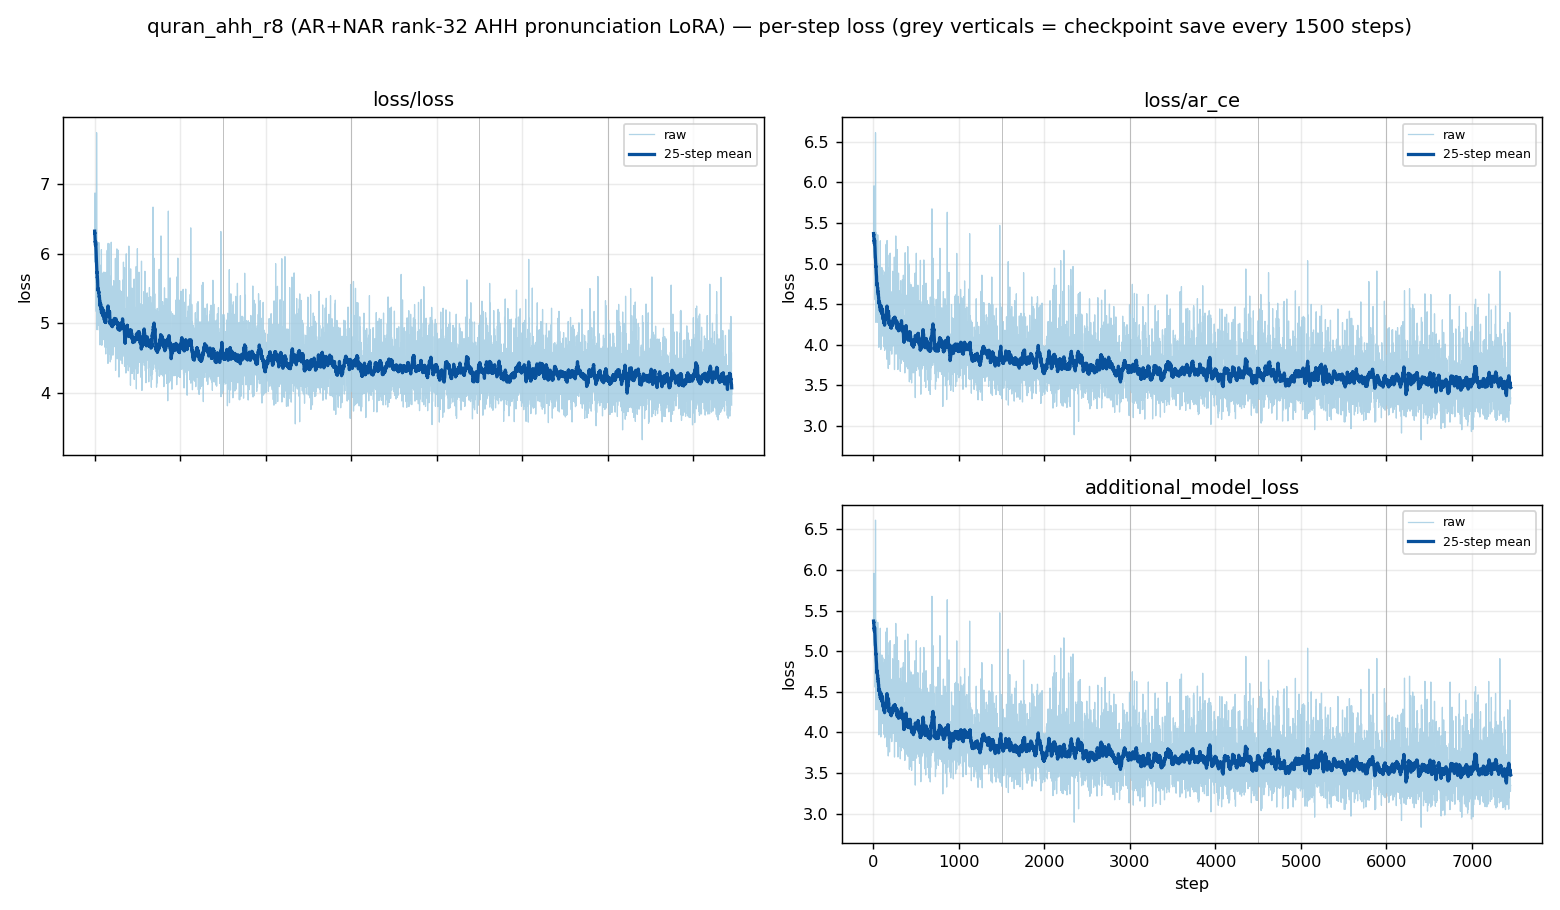
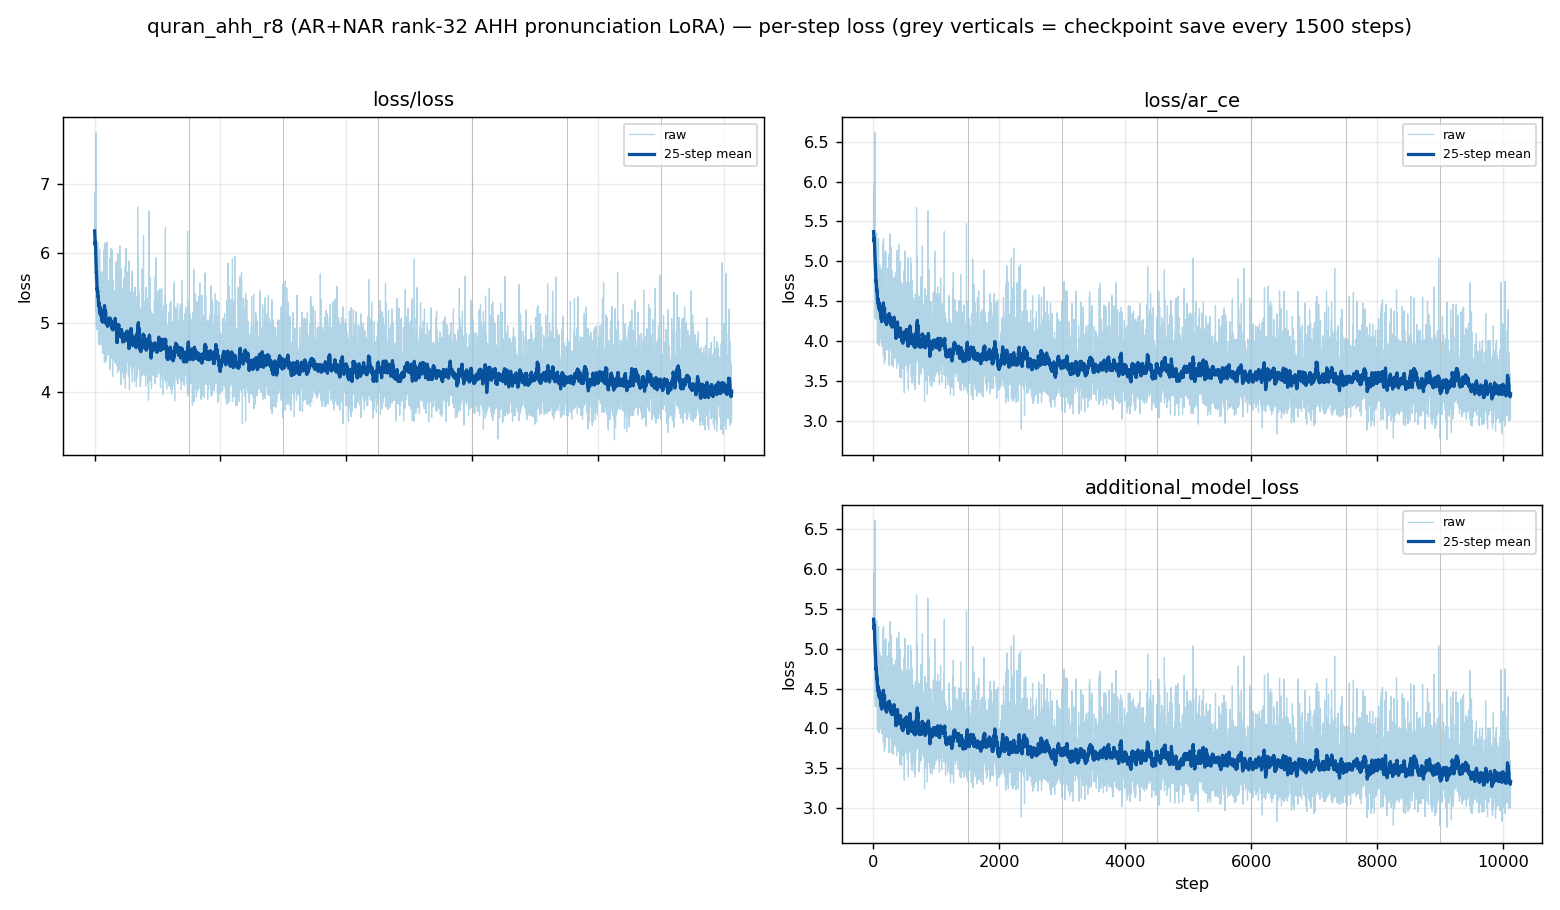
TRAINING_ANALYSIS: rank-32 snapshot @ step 10120/28467 + T4 c4500/c7500 listening verdict

diff --git a/TRAINING_ANALYSIS/quran_ahh_r8_rank32/ANALYSIS.md b/TRAINING_ANALYSIS/quran_ahh_r8_rank32/ANALYSIS.md
@@ -1,6 +1,6 @@
 # Training analysis — `quran_ahh_r8` **revised** (AR+NAR, rank 32, no KL)
 
-**LIVE SNAPSHOT** — captured **2026-10-05 ~15:27 UTC** at **step 7,457 / 28,467 (26.2%)**.
+**LIVE SNAPSHOT** — captured **2026-10-05 ~16:10 UTC** at **step 10,120 / 28,467 (35.5%)**.
 The run is still training (pid 16301, started `2026-10-05T12:35:11`); this is *not* a final
 analysis. Charts produced by the parametrized `TRAINING_ANALYSIS/generate_plots.py`:
 
@@ -22,7 +22,8 @@ python TRAINING_ANALYSIS/generate_plots.py \
 
 > This is **training loss only** — no in-training validation and **no samples**
 > (`train.disable_sampling: true`), so adapter quality must be judged offline from the
-> checkpoints, not from loss alone (`docs/QURAN_PRON_REVIEW.md` §1).
+> checkpoints, not from loss alone (`docs/QURAN_PRON_REVIEW.md` §1). A first listening
+> verdict (T4 probe, c4500/c7500) is recorded below.
 
 ## Run at a glance
 
@@ -33,13 +34,13 @@ python TRAINING_ANALYSIS/generate_plots.py \
 | Dataset | `/content/quran_ahh_dataset/train` — **9,489 pairs** (AHH filtered, 3 reciters, single caption/clip, 50/50 simple/uthmani stratified); `steps: 28467` = **3 epochs** |
 | GPU | Colab **L4** (23,034 MiB) |
 | Caching | 9,489 clips on the banked `_latent_cache.tar` — pass completed **< 1 s** at launch (cache HIT, no re-encode) |
-| Steps done | **7,457 / 28,467 (26.2%)** at snapshot |
-| Step time | **median 1.247 s** (p10 1.216 / p90 1.737; mean 1.370, max 5.804) → ~**0.73 steps/s** avg (0.67 recent) |
+| Steps done | **10,120 / 28,467 (35.5%)** at snapshot |
+| Step time | **median 1.247 s** (p10 1.216 / p90 1.745; max 5.804) → ~**0.73 steps/s** (0.71 recent) |
 | Save cadence | every **1500** steps (~34 min at current rate) |
 | Samples | **none** (`disable_sampling: true`) — grey verticals are checkpoint saves |
-| Checkpoints | `_000001500 / _3000 / _4500 / _6000` + `optimizer.pt` (step 6000) — local + GCS (verified); next save 7500 |
-| GPU (training window) | mem p50 **9,038** / peak **9,150** MiB of 23,034; util p50 **50 %**, p90 100 %; temp p50 77 / max 80 °C; power p50 65 / max 75 W (limit 72) |
-| Health | clean — no tracebacks/OOM; VRAM flat; matching ~34 min save cadence |
+| Checkpoints | `_000001500 / _3000 / _4500 / _6000 / _7500 / _9000` (**6**) + `optimizer.pt` (step 9000) — local + GCS (verified); next save 10500 |
+| GPU (training window) | mem p50 **8,978** / peak **9,150** MiB of 23,034; util p50 **53 %**, p90 100 %; temp p50 77 / max 80 °C; power p50 66 / max 75 W (limit 72) |
+| Health | clean — no tracebacks/OOM; VRAM flat; steady ~34 min save cadence |
 
 ## Charts
 
@@ -60,58 +61,71 @@ python TRAINING_ANALYSIS/generate_plots.py \
 | 4001–5000 | 4.3079 | 3.6310 | 3.6310 | 0.6769 |
 | 5001–6000 | 4.2735 | 3.5984 | 3.5984 | 0.6751 |
 | 6001–7000 | 4.2116 | 3.5472 | 3.5472 | 0.6644 |
-| 7001–7457 | 4.2369 | 3.5527 | 3.5527 | 0.6842 |
+| 7001–8000 | 4.2126 | 3.5345 | 3.5345 | 0.6780 |
+| 8001–9000 | 4.1680 | 3.5015 | 3.5015 | 0.6665 |
+| 9001–10000 | 4.0953 | 3.4341 | 3.4341 | 0.6613 |
+| 10001–10120 | 4.0642 | 3.4064 | 3.4064 | 0.6578 |
 
-First-50 vs last-50 means (from `generate_plots.py`): `loss/loss` **5.8409 → 4.2155**
-(−1.625), `loss/ar_ce` **5.0275 → 3.5393** (−1.488), `additional_model_loss` identical,
-`learning_rate` constant 1e-4. `loss/loss` minimum **3.3256 @ step 6406**.
+First-50 vs last-50 means (from `generate_plots.py`): `loss/loss` **5.8409 → 4.0713**
+(−1.770), `loss/ar_ce` **5.0275 → 3.4148** (−1.613), `additional_model_loss` identical,
+`learning_rate` constant 1e-4. `loss/loss` minimum **3.3151 @ step 8258**.
 
 ## Observations / flags
 
 1. **Only 4 metric keys** — `additional_model_loss`, `learning_rate`, `loss/ar_ce`,
    `loss/loss`. **No `ar_kl`** (weight is now 0.0, correct) and **no separately-keyed NAR
    term**.
-2. **`additional_model_loss` is byte-identical to `loss/ar_ce`** across all 7,465 rows
-   (max abs diff `0.0`) — it is a duplicate label, **not** a second loss. Do not read it as
-   the NAR expert.
-3. **The NAR/flow term is only visible as the residual** `loss/loss − ar_ce` ≈ **0.68**
-   (0.776 → 0.676, min 0.445 @ step 3029). It is descending, so the second (NAR) expert is
-   being trained — but the logging gives **no clean, separate read on it**. Worth flagging
-   to the evaluator: the AR+NAR claim is corroborated by the residual, not by a dedicated key.
-4. **`loss/ar_ce` — the AR term — falls monotonically** across all bins (4.16 → 3.55) and is
-   still inching down; the partial final bin ticks up slightly (+0.006), i.e. early plateau.
-5. **`loss/loss` is AR-dominated**, so do **not** read it as audio quality; the held-out
+2. **`additional_model_loss` is byte-identical to `loss/ar_ce`** across all rows — a duplicate
+   label, **not** a second loss. The NAR/flow term is only visible as the residual
+   `loss/loss − ar_ce` ≈ **0.66** (0.776 → 0.660 over the run), and it is **still falling** —
+   both experts are training, but the log gives no clean separate read on the NAR.
+3. **`loss/ar_ce` — the AR term — falls monotonically** across every bin (4.16 → 3.41) and has
+   **not plateaued** at step 10k (last bin 3.434 → 3.406).
+4. **`loss/loss` is AR-dominated**, so do **not** read it as audio quality; the held-out
    free-run eval is the only quality signal.
-6. **The L4 is not the bottleneck.** Training util p50 **50 %** (p90 100 %), ~9 GB of
-   23 GB — data/CPU-bound, same profile as the prior runs. Power saturates (p90 = 72 W limit).
-7. **First 50 are warmup-inflated** (`loss/loss` ~5.84); the per-step series is noisy —
-   trust the bins, not single steps.
-8. **Throughput shows occasional multi-second spikes** (max 5.80 s/step), aligning with the
-   1500-step saves; the median stays ~1.25 s/step.
+5. **The L4 is not the bottleneck.** util p50 **53 %** (p90 100 %), ~9 GB of 23 GB —
+   data/CPU-bound; power saturates at the 72 W limit.
+6. **First 50 are warmup-inflated** (`loss/loss` ~5.84); the per-step series is noisy — trust
+   the bins.
+7. **Occasional multi-second throughput spikes** (max 5.80 s/step) align with the 1500-step
+   saves; the median stays ~1.25 s/step.
+
+## Listening verdict — first T4 probe (2026-10-05, user)
+
+Rendered **c4500** and **c7500** (real AR+NAR arms) on held-out 2:255, seed 20261004, both
+scripts; **4 WAVs** at `…/audiocpp_inference/out/20261005-154621_quran_pt_probe/` (mirrored
+to GCS 16:05Z). User listened (T4 since disconnected):
+
+- **All tracks "sound like Alhusary — more or less"** (reciter-style voice; data spans 3
+  reciters with no reciter in the caption, so some averaging is expected).
+- **Best: `c7500_simple`** (one mistake); **simple script beats uthmani** for both 4500 and 7500.
+- **Hard letters (ح، ع …) are no longer the problem they were in the rank-8 run** — the
+  AR+NAR revision moved articulation, not just prosody. Not fully correct yet.
+
+Signal: genuine improvement vs the rank-8 AR-only run, still improving at 7.5k → **not a
+plateau**; next probe planned around **step ~18000**.
 
 ## Checkpoints (on disk + GCS)
 
-`/content/ai-toolkit/output/quran_ahh_r8/`:
-`quran_ahh_r8_000001500.safetensors`, `_000003000`, `_000004500`, `_000006000`
-(each 117,500,848 B ≈ 112 MiB) + `optimizer.pt` (119,807,781 B) + `loss_log.db`.
-GCS mirror `…/quran_ahh_r8/output/` verified (9 objects; last loss_log.db sync 15:23 UTC).
+`/content/ai-toolkit/output/quran_ahh_r8/`: `quran_ahh_r8_000001500 … _000009000`
+(6 × 117,500,848 B ≈ 112 MiB) + `optimizer.pt` (119,807,781 B, step 9000) + `loss_log.db`.
+GCS mirror `…/quran_ahh_r8/output/` verified (all six + optimizer present).
 
 ## Caveats
 
-- **Mid-run snapshot** — numbers will move; re-run the command above (or wait for
-  completion) for the final charts and bins.
-- **No validation split and no samples** (`disable_sampling: true`), so loss says nothing
-  about pronunciation. That requires the offline free-run held-out 2:255 eval per checkpoint
-  (`docs/QURAN_PRON_REVIEW.md` §2.1). The T4 probe driver (`INFERENCE/quran_pt_probe.py`)
-  and the prior rank-8 arms target that; the revised run's arms are not yet converted.
+- **Mid-run snapshot** — numbers will move; re-run the command above for the final charts/bins.
+- **No validation split and no samples** (`disable_sampling: true`); the listening verdict
+  above is a small single-aya, single-listen read, not a blind/statistical eval. A human blind
+  gate (`ab-blind-eval`) is still required before any merge.
 - **Saved adapters are EMA weights** (`ema_config.use_ema: true`, decay 0.999).
-- Absolute loss is not comparable to the rank-8 run (different rank/scope/data epoch count);
-  only the *shape* (monotone `ar_ce` down) is.
+- Absolute loss is not comparable to the rank-8 run (different rank/scope/epoch count); only
+  the *shape* (monotone `ar_ce` down) is.
 
 ## Next steps
 
-- Let it reach the next save (7500) and continue to 28,467; regenerate charts at checkpoints.
-- Convert the numbered checkpoints to audio.cpp AR/NAR adapters and run the held-out 2:255
-  free-run sweep; **human blind gate** (`ab-blind-eval`) before any merge.
+- Continue to **28,467**; regenerate charts at checkpoints.
+- **~step 18000**: convert the then-current checkpoint(s) to audio.cpp AR/NAR arms and re-run
+  the T4 probe (`INFERENCE/quran_pt_probe.py --prefix quran_ahh_r8_rank32/convert --arms c18000`).
 - If the NAR term matters to the verdict, add a dedicated NAR-loss log key (or inspect the
   toolkit's metric emission) so it is no longer only a residual.
+- **Human blind gate** (`ab-blind-eval`) before any merge.

diff --git a/agent_notes/current.md b/agent_notes/current.md
@@ -1,66 +1,77 @@
 # current
 
-## State @ 2026-10-05 ~15:40 UTC — `quran_ahh_r8` REVISED training LIVE; T4 starter probe READY
+## State @ 2026-10-05 ~16:15 UTC — `quran_ahh_r8` REVISED training LIVE; T4 probe round 1 done
 
 Branch `pron-lora-long-aya`. Config `config/quran_ahh_r8.yml` = **AR+NAR, rank 32/32,
 `ar_kl_weight 0.0`, steps 28467 (3 epochs)** — authority; do not edit.
 
 - **Training running**: `run.py` pid **16301** (detached, started 12:35:11). Log
   `/content/logs/train_quran_ahh.log`.
-- **Progress**: ~**7,767 / 28,467 (27%)**; loss/loss ~4.2 (bs=1). Median **1.247 s/step**
+- **Progress**: ~**10,120 / 28,467 (35.5%)**; loss/loss ~4.06 (bs=1). Median **1.247 s/step**
   (~0.73 steps/s); VRAM peak **9,150 MiB** of 23,034; **1500-step save ≈ 34 min**.
-- **Checkpoints (rank 32)**: `_000001500 / _3000 / _4500 / _6000 / _7500` (**5**, 112 MiB each)
-  + `optimizer.pt` — local + GCS. Next save = **9000**.
+- **Checkpoints (rank 32)**: `_000001500 / _3000 / _4500 / _6000 / _7500 / _9000` (**6**, 112 MiB
+  each) + `optimizer.pt` (step 9000) — local + GCS. Next save = **10500**.
 - Sidecars: `backup_to_gcp.py` (pid 13044) + `gpu_logger.py` (pid 13214).
   `vm-continuity status`: `state=OK` (pid 6120).
 
-Live snapshot analysis of this run: `TRAINING_ANALYSIS/quran_ahh_r8_rank32/ANALYSIS.md`
-(the old rank-8 analysis stays at `TRAINING_ANALYSIS/quran_ahh_r8/`).
+Live snapshot: `TRAINING_ANALYSIS/quran_ahh_r8_rank32/ANALYSIS.md` (old rank-8 analysis stays
+at `TRAINING_ANALYSIS/quran_ahh_r8/`).
 
-## T4 INFERENCE STARTER — checkpoints 4500 + 7500 (ready 2026-10-05)
+## T4 probe round 1 — LISTENING VERDICT (2026-10-05, user)
 
-Converted the revised rank-32 checkpoints to audio.cpp adapters on the L4 (**CPU**, both
-experts real — NOT lone-AR; byte-verified) and banked them:
+Rendered **c4500 + c7500** (real AR+NAR; converted on the L4, banked
+`…/quran_ahh_r8_rank32/convert/{c4500,c7500}/`), held-out 2:255 both scripts. 4 WAVs at
+`…/audiocpp_inference/out/20261005-154621_quran_pt_probe/` (GCS, 16:05Z). T4 **now disconnected**.
 
-`$GCP_BACKUP_BASE/quran_ahh_r8_rank32/convert/{c4500,c7500}/quran_ahh_r8_{ar,nar}.safetensors`
-(+ `adapter_manifest.json`, sha256 per arm). Driver now takes `--prefix`/`--arms`.
+- All tracks "sound like Alhusary — more or less".
+- **Best: `c7500_simple`** (one mistake); **simple > uthmani** for both.
+- **Hard letters (ح، ع) much less of a problem than in rank-8** — still not fully correct.
+- Genuine improvement vs rank-8 AR-only; still improving at 7.5k → **not a plateau**.
+- **Next try ~step 18000.**
+
+## T4 probe — how to run (repeat around 18000)
+
+Convert the then-current checkpoint on the L4 (**CPU**; does not touch the training GPU), bank
+it, then run the probe on a fresh T4. `--arms` selects the subset.
+
+```bash
+# on the L4 (or any CPU box), per checkpoint step S:
+mkdir -p /content/converter/out
+gcloud storage cp "$GCP_BACKUP_BASE/audiocpp_inference/converter/convert_aitoolkit_yue2_lora.py" /content/converter/out/
+python /content/converter/out/convert_aitoolkit_yue2_lora.py \
+  /content/ai-toolkit/output/quran_ahh_r8/quran_ahh_r8_00000<S>.safetensors \
+  --out-dir /content/conversion/quran_ahh_r8_rank32/c<S> --stem quran_ahh_r8
+gcloud storage rsync -r /content/conversion/quran_ahh_r8_rank32 "$GCP_BACKUP_BASE/quran_ahh_r8_rank32/convert"
+```
 
 terminal: detached — survives Ctrl+C / closing the tab.
 log: `/content/logs/quran_pt_probe_r32.log`
 stop: `pkill -f 'quran_pt_probe.py --prefix quran_ahh_r8_rank32'` (also kills the
-`generate.py` child). ~26 min for 4 tracks; a restart re-renders (no resume dir).
-resume: re-run the same `setsid nohup …` line.
+`generate.py` child).
+resume: re-run the `setsid nohup …` line (~26 min for 4 tracks; restart re-renders).
 
 ```bash
-# --- on a FRESH T4 Colab ---
+# on a fresh T4:
 git clone https://github.com/akbargherbal/maqamrock-yue2-lora-finetuning.git /content/maqamrock-yue2-lora-finetuning
 cd /content/maqamrock-yue2-lora-finetuning && git checkout pron-lora-long-aya
-bash bootstrap/setup.sh --inference > /content/logs/setup.log 2>&1   # wait for the verify block
-
-# validate the batch (no GPU), then run it detached:
-python INFERENCE/quran_pt_probe.py --prefix quran_ahh_r8_rank32/convert --arms c4500,c7500 --dry-run
+bash bootstrap/setup.sh --inference > /content/logs/setup.log 2>&1   # wait for verify block
+python INFERENCE/quran_pt_probe.py --prefix quran_ahh_r8_rank32/convert --arms c18000 --dry-run
 setsid nohup python INFERENCE/quran_pt_probe.py \
-  --prefix quran_ahh_r8_rank32/convert --arms c4500,c7500 \
+  --prefix quran_ahh_r8_rank32/convert --arms c18000 \
   > /content/logs/quran_pt_probe_r32.log 2>&1 & disown
 ```
 
-- Arms = `c4500`, `c7500` × `{uthmani, simple}` = **4 tracks**, held-out **2:255**, seed
-  20261004, cap 7500. Output: `/content/audiocpp_inference/out/<ts>_quran_pt_probe/`
-  (mirrored to GCS `audiocpp_inference/out/` by the backup sidecar).
-- A **base (no-LoRA)** reference already exists from the morning rank-8 probe
-  (`audiocpp_inference/out/20261005-072738_quran_pt_probe/base_{simple,uthmani}.wav`) — compare
-  against those rather than re-rendering base.
-- Needs `GCP_BACKUP_BASE` (arm staging + backup) and `HF_TOKEN` (GGUF) in env
-  (`/root/.secrets.env`). T4 = native **sm_75** binary; if it faults on CUDA-13 libs see
-  `docs/COMMAND_HANDOVER_GOTCHAS.md` (2026-10-04).
+- Base (no-LoRA) reference already exists: `…/out/20261005-072738_quran_pt_probe/base_*.wav`.
+- Needs `GCP_BACKUP_BASE` + `HF_TOKEN` (`/root/.secrets.env`). T4 = native sm_75 binary; CUDA-13
+  lib gotcha → `docs/COMMAND_HANDOVER_GOTCHAS.md` (2026-10-04).
 
 ## GCS layout (2026-10-05)
 
 - **Live revised run** `…/quran_ahh_r8/` = `output/` (rank-32 ckpts + optimizer + loss_log.db),
   `logs/`, `agent_notes/`, `run_manifest.json`.
 - **Revised adapters** `…/quran_ahh_r8_rank32/convert/{c4500,c7500}/` (rank 32, AR+NAR).
-- **Archive** `…/archive/quran_ahh_r8_rank8_aronly/` = the OLD rank-8 run's `output/` and
-  `convert/` arms. Do not use any rank-8 adapter with the revised config.
+- **Archive** `…/archive/quran_ahh_r8_rank8_aronly/` = OLD rank-8 run's `output/` + `convert/`.
+  Do not use any rank-8 adapter with the revised config.
 
 ## Controls (training)
 
@@ -83,8 +94,8 @@ Monitor: `python monitor_loss.py /content/ai-toolkit/output/quran_ahh_r8/loss_lo
 this file + commit/push. No auto-resume; a pause is a user-typed `stop`.
 
 ## Open items
-- Human blind gate (`ab-blind-eval`) before any merge; judge the T4 renders with tashkeel visible.
-- Only 4 metric keys logged; `additional_model_loss` is byte-identical to `loss/ar_ce`, so the
-  NAR term is visible only as the `loss/loss − ar_ce` residual (~0.68) — see the new ANALYSIS.md.
+- Human blind gate (`ab-blind-eval`) before any merge.
+- Only 4 metric keys; `additional_model_loss` is byte-identical to `loss/ar_ce`, so the NAR term
+  shows only as the `loss/loss − ar_ce` residual (~0.66) — see the ANALYSIS.md flag.
 - `docs/QURAN_AHH_RUN.md` still points at the old rank-8 `TRAINING_ANALYSIS/quran_ahh_r8/`.
 - `status.py` reports its default run name `akbar_arabic_rock_lora`; actual run is `quran_ahh_r8`.
